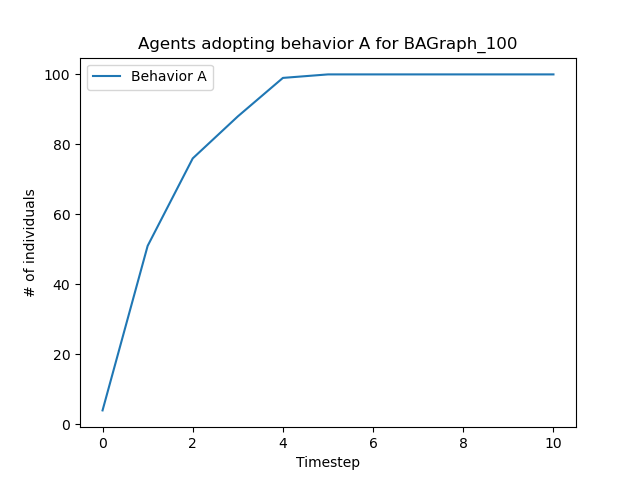
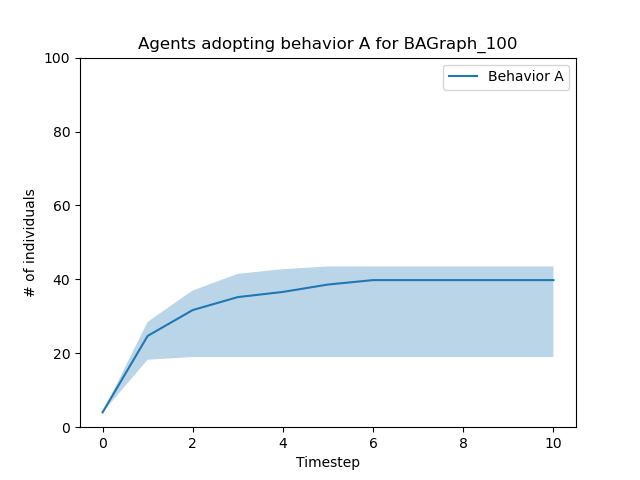
Fixed experiment

diff --git a/Project02/Experiment.py b/Project02/Experiment.py
@@ -5,7 +5,7 @@ import networkx as nx
 import numpy as np
 
 from Population import Population
-from Project02.State import State
+from State import State
 
 
 class Experiment:
@@ -13,30 +13,32 @@ class Experiment:
         self.graphGenerator = graphGenerator
         self.name = name
         self.early_adopters = early_adopters
-        
+
         self.steps = steps
-        if len(self.G) < 100:
-            self.draw = True
-        else:
-            self.draw = False
         self.trials = trials
-        self.time_series_data = []
+        self.time_series_data = [[] for k in range(self.trials)]
 
     def run(self):
         for k in range(self.trials):
-            G = self.graphGenerator()
+            self.G = self.graphGenerator()
             mapping = {
-                n: i for (n, i) in zip(G.nodes(), range(1, len(G.nodes()) + 1))
+                n: i
+                for (n, i) in zip(self.G.nodes(), range(1, len(self.G.nodes()) + 1))
             }
-            nx.relabel_nodes(G, mapping, False)
+            nx.relabel_nodes(self.G, mapping, False)
 
-            if not isinstance(self.earlyAdopters, list):
-                self.earlyAdopters = self.earlyAdopters[0](G, self.earlyAdopters[1])
+            if not isinstance(self.early_adopters, list):
+                self.early_adopters = self.early_adopters[0](
+                    self.G, self.early_adopters[1]
+                )
 
-            self.P = Population(G, self.early_adopters)
-            self.counts = self.P.count_all()
+            self.P = Population(self.G, self.early_adopters)
 
-            self.time_series_data.append(self.counts[State.STATE_A])
+            self.time_series_data[k].append(self.P.counts[State.STATE_A])
+            if len(self.G) < 100:
+                self.draw = True
+            else:
+                self.draw = False
 
             if self.draw and k == 0:
                 self.animateGraph(False, 0)
@@ -47,9 +49,7 @@ class Experiment:
                 if self.draw and k == 0:
                     self.animateGraph(False, i + 1)
 
-                for j, v in enumerate(self.P.counts.values()):
-                    self.time_series_data[k][j].append(v)
-            self.P = Population(self.G, self.early_adopters)
+                self.time_series_data[k].append(self.P.counts[State.STATE_A])
         self.draw_time_series()
         return self.stats()
 
@@ -81,8 +81,9 @@ class Experiment:
         Q1 = np.quantile(data, 0.25, axis=0)
         Q3 = np.quantile(data, 0.75, axis=0)
         x = list(range(self.steps + 1))
-        plt.plot(x, mean_data[0], label="Behavior A")
-        plt.fill_between(x, Q1[0], Q3[0], alpha=0.3)
+        plt.plot(x, mean_data, label="Behavior A")
+        plt.fill_between(x, Q1, Q3, alpha=0.3)
+        plt.ylim([0, len(self.G)])
         plt.xlabel("Timestep")
         plt.ylabel("# of individuals")
         plt.legend()
@@ -92,12 +93,12 @@ class Experiment:
 
     def stats(self):
         data = np.array(self.time_series_data).mean(axis=0)
-        stats = {}
+        stats = {"name": self.name}
         # Time to no changes
-        min_sus = data[0].min()
-        stats["time_to_no_change"] = np.where(data[0] == min_sus)[0][0]
+        min_sus = data.min()
+        stats["time_to_no_change"] = np.where(data == min_sus)[0][0]
         # Percentage adopting
-        stats["percentage_adopting"] = data[0][-1] / len(self.G)
+        stats["percentage_adopting"] = data[-1] / len(self.G)
         # Clustering coeffiecient
         stats["clustering_coefficient"] = nx.transitivity(self.G)
         # Density

diff --git a/Project02/Graphs.py b/Project02/Graphs.py
@@ -82,7 +82,7 @@ if __name__ == "__main__":
         return [degrees[i][0] for i in range(n)]
 
     # Graph from fig 19.4
-    def NCM_graph():
+    def NCM_Graph():
         return _get_graph_nineteenfour_from_NCM_book()
 
     # circulant graph with 2 neighbors each side
